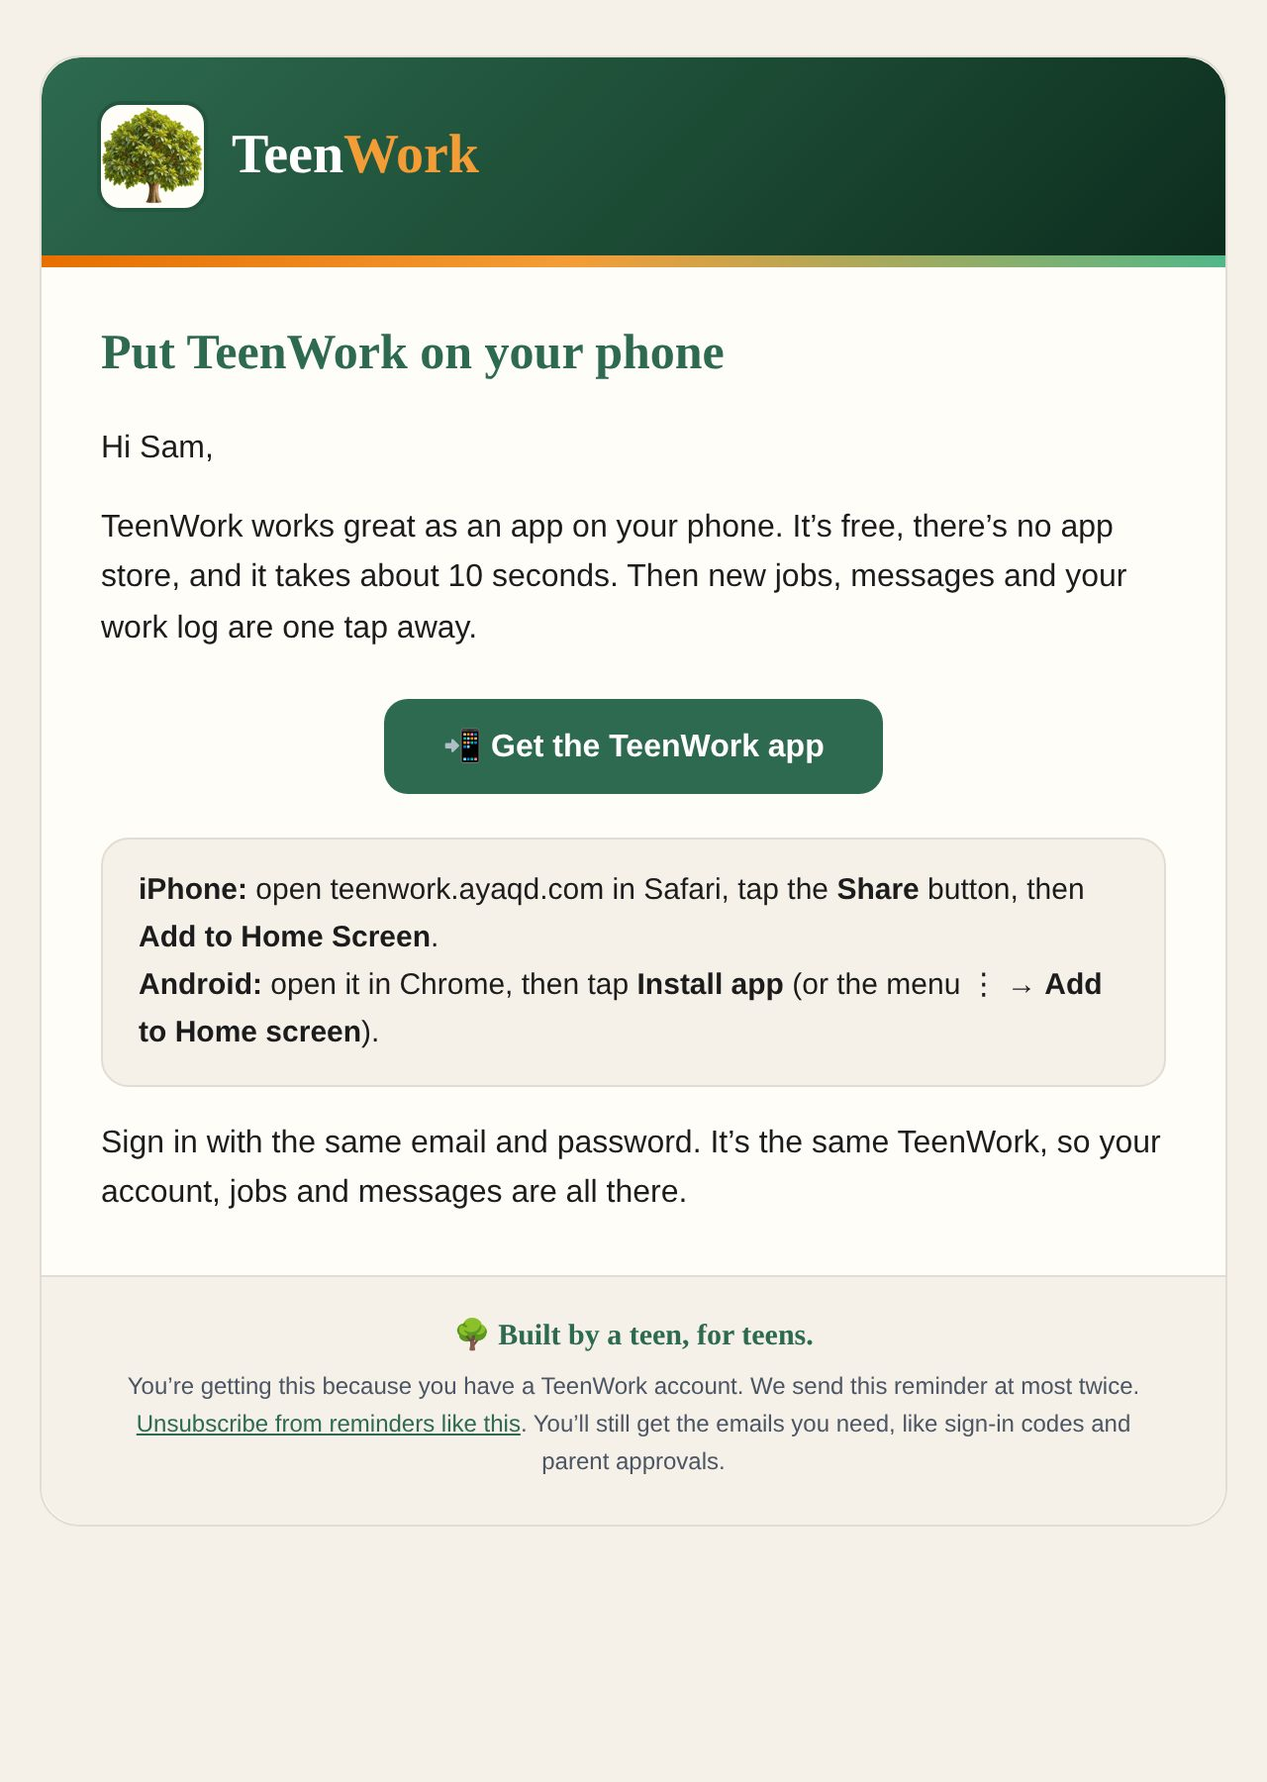
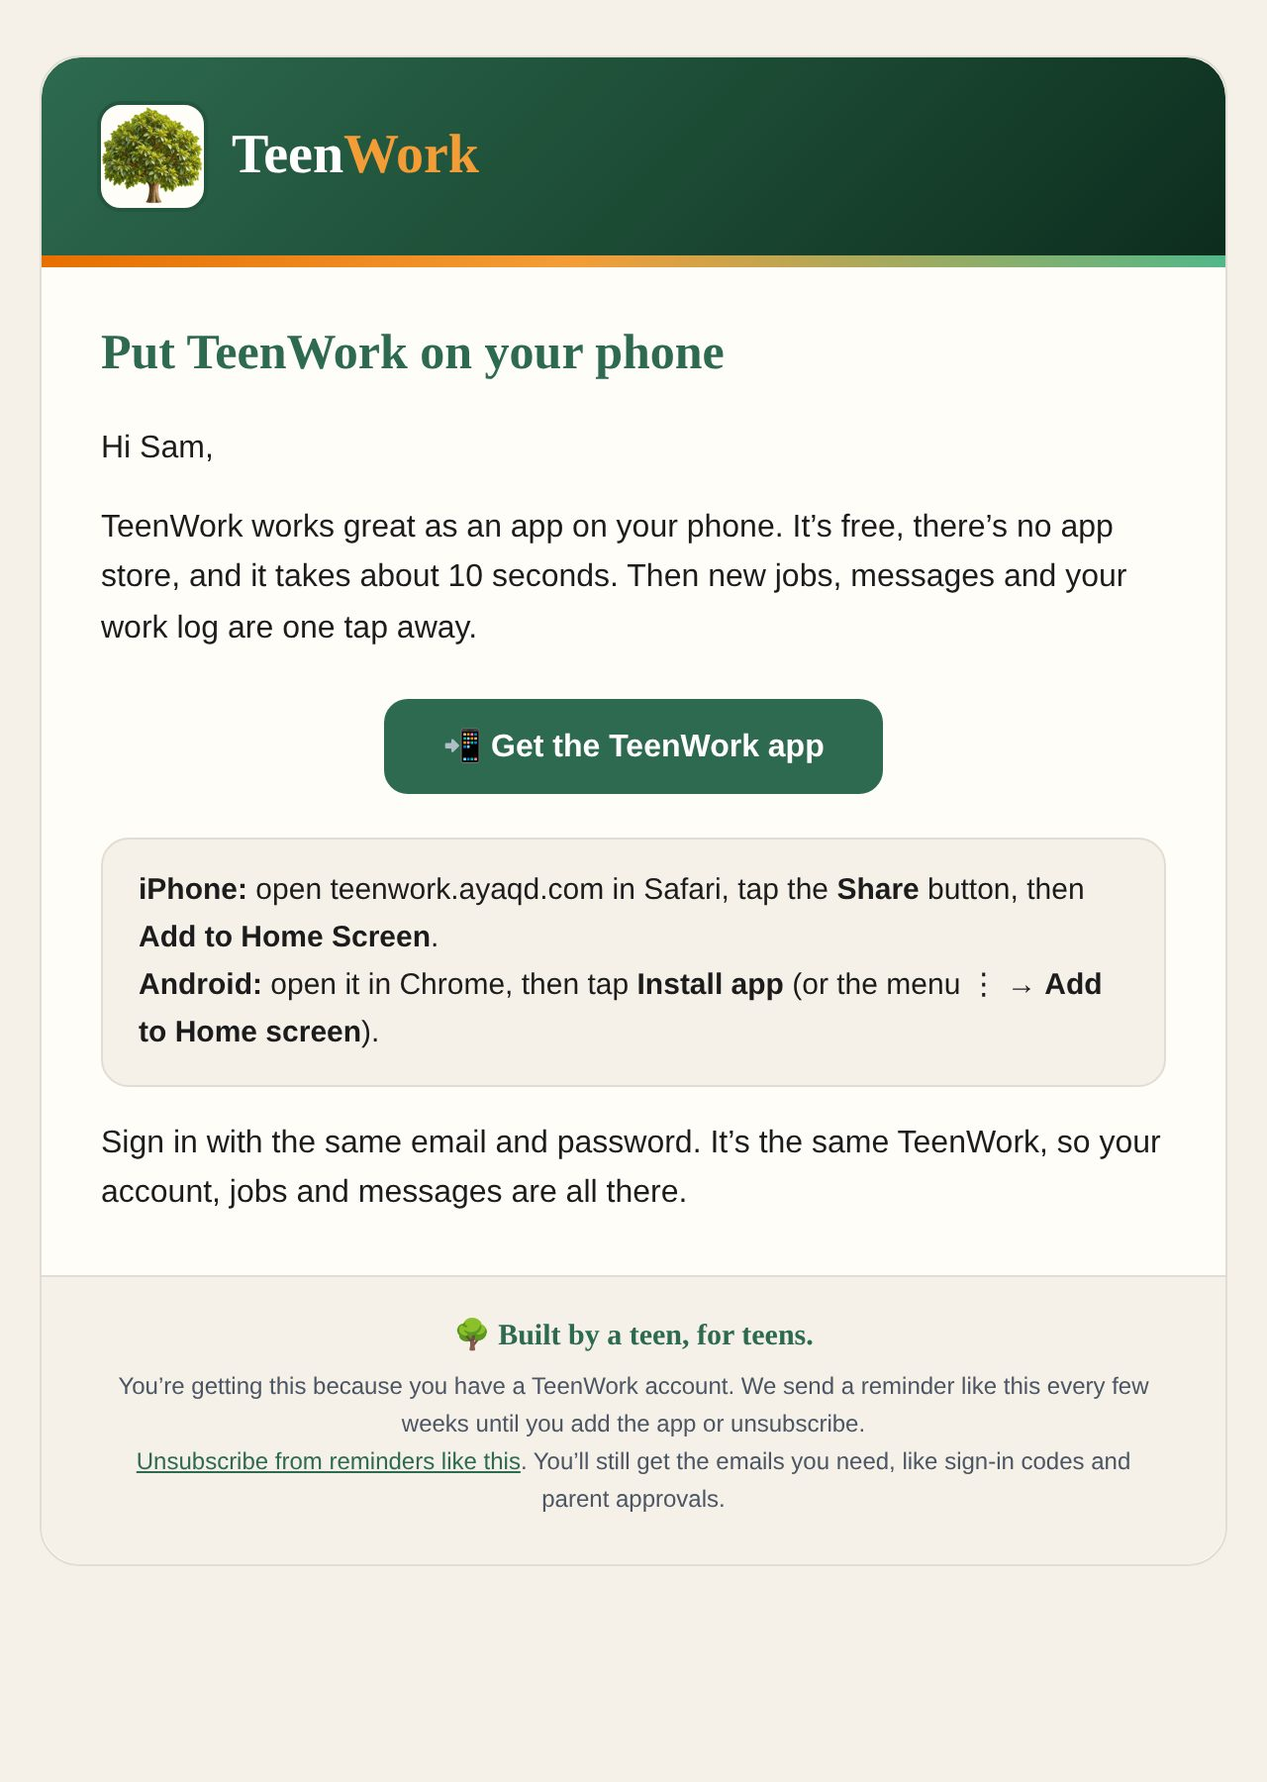
Get the app: reminders keep going until someone unsubscribes
Aya: "don't just end promotional stuff unless they unsubscribe".
- Reminder emails: no cap per person (was 2). One every 21+ days until the
  person unsubscribes or opens the installed app. Optional secret
  APP_EMAILS_MAX_PER_PERSON sets a cap. The wording takes turns between three
  versions and never says "last reminder"; the footer says they come every
  few weeks until you add the app or unsubscribe.
- Whoever has had the fewest reminders goes first, so new accounts are not
  crowded out by the daily limit.
- Pop-up: no cap (was 3 times); every 14+ days until "Don't ask again".
- Tests and README updated; new picture docs/get-app/email-reminder-3.jpg.

Claude-Session: https://claude.ai/code/session_01DScwzLM2e38oY7J8DSKjJL

Changed region(s): [[0.0938, 0.7467, 0.9062, 0.84]]

diff --git a/supabase/functions/app-emails/core.ts b/supabase/functions/app-emails/core.ts
@@ -1,11 +1,15 @@
 // app-emails: TeenWork's occasional "get the app" reminder emails (v57, 2026-11-13).
 // Aya: "have a download app button and a popup try to get users to download and send emails about sometimes".
+// Aya, later the same day: "don't just end promotional stuff unless they unsubscribe". So the reminders keep
+// coming every 3 weeks until the person unsubscribes (or opens TeenWork as an installed app, which is what
+// they ask for). The wording takes turns between three versions so it isn't the same email every time.
 // The logic lives here, apart from Deno.serve, so tests/app-emails-function.mjs can run it in Node.
 //
 // What it does, once a day (pg_cron calls POST {"action":"run"}, see migration 20261113_app_emails.sql):
 //   • asks the database who is due (rpc tw_app_email_claim): teen / parent / employer accounts at least
 //     2 days old that haven't opened TeenWork as an installed app and haven't unsubscribed. Never the admin,
-//     demo / .test addresses or Aya's tester inboxes. At most 2 reminders per person ever, 21+ days apart.
+//     demo / .test addresses or Aya's tester inboxes. One every 21+ days, with no limit on how many.
+//     People with the fewest reminders go first, so new accounts aren't crowded out.
 //     The database also refuses a second run within 20 hours, so calling this function again sends nothing.
 //   • sends each one a short email through Resend from the same address as the app's other emails, with a
 //     one-click unsubscribe (List-Unsubscribe headers + a link to https://teenwork.ayaqd.com/?unsub=<token>).
@@ -17,7 +21,7 @@
 //
 // Other requests:
 //   POST {"ping":true}            → is it set up? Sends nothing.
-//   POST {"action":"preview", "role":"teen|parent|employer", "step":1|2, "name":"Sam"}
+//   POST {"action":"preview", "role":"teen|parent|employer", "step":1|2|3…, "name":"Sam"}
 //                                 → the email it would send (subject, html, text). Sends nothing.
 //   GET  ?unsub=<token>           → redirects to the site's unsubscribe page (Supabase shows HTML as text).
 //   POST ?unsub=<token>           → one-click unsubscribe from a mail app (RFC 8058).
@@ -26,6 +30,7 @@
 //   RESEND_API_KEY, RESEND_FROM (e.g. hello@teenwork.ayaqd.com). Nothing is sent without both, and never
 //   from Resend's test sender.
 // Optional: SITE_URL (default https://teenwork.ayaqd.com), APP_EMAILS_PER_RUN, APP_EMAILS_DAY_CAP,
+//   APP_EMAILS_MAX_PER_PERSON (a cap on reminders per person; unset = no cap, keep going until they unsubscribe),
 //   APP_EMAILS_OFF=1 (sends nothing), APP_EMAILS_SECRET (when set, "run" needs header x-tw-cron with it),
 //   MAIL_POSTAL_ADDRESS (a mailing address shown in the footer; US law (CAN-SPAM) asks for one in
 //   promotional email: a P.O. box is fine).
@@ -34,7 +39,7 @@
 
 export type Env = {
   url: string; serviceKey: string; resendKey: string; resendFrom: string; site: string;
-  perRun: number; dayCap: number; minAgeDays: number; gapDays: number; maxPerUser: number;
+  perRun: number; dayCap: number; minAgeDays: number; gapDays: number; maxPerUser: number;   // maxPerUser 0 = no cap
   off: boolean; secret: string; postal: string; pauseMs: number;
 };
 export type Person = { user_id: string; email: string; first_name: string | null; account_type: string | null; step: number; unsub_token: string; prev_last_at: string | null };
@@ -68,25 +73,41 @@ export function buildEmail(p: { first_name?: string | null; account_type?: strin
   const oneTap = role === "parent" ? "your teen&rsquo;s job requests and alerts are one tap away"
     : role === "employer" ? "new applicants and messages are one tap away"
     : "new jobs, messages and your work log are one tap away";
-  const last = p.step >= 2;
-  const subject = last ? "TeenWork is one tap away" : "Put TeenWork on your phone 📲";
-  const preheader = last ? "Add it to your home screen so it opens like an app. This is our last reminder about it."
-    : "It’s free, there’s no app store, and it takes about 10 seconds.";
+  // Three versions that take turns: 1st email = A, 2nd = B, 3rd = C, 4th = A again, and so on.
+  const V = [
+    {
+      subject: "Put TeenWork on your phone 📲", heading: "Put TeenWork on your phone",
+      preheader: "It’s free, there’s no app store, and it takes about 10 seconds.",
+      intro: `TeenWork works great as an app on your phone. It&rsquo;s free, there&rsquo;s no app store, and it takes about 10 seconds. Then ${oneTap}.`,
+      outro: "Sign in with the same email and password. It&rsquo;s the same TeenWork, so your account, jobs and messages are all there.",
+    },
+    {
+      subject: "TeenWork is one tap away", heading: "TeenWork is one tap away",
+      preheader: "Add it to your home screen so it opens like an app.",
+      intro: `Quick tip: you can add TeenWork to your phone&rsquo;s home screen, so it opens like any other app. Then ${oneTap}.`,
+      outro: "Sign in with the same email and password. Once you open TeenWork from your home screen, these reminders stop.",
+    },
+    {
+      subject: "A faster way to open TeenWork", heading: "Open TeenWork in one tap",
+      preheader: "No typing the address, no hunting for the tab.",
+      intro: `Here&rsquo;s a shortcut: put TeenWork on your home screen and it opens in one tap, full screen, like any other app. No typing the address and no hunting for the tab. Then ${oneTap}.`,
+      outro: "Already added it? Open TeenWork from your home screen and sign in once, and these reminders stop.",
+    },
+  ];
+  const v = V[(Math.max(1, Math.floor(Number(p.step) || 1)) - 1) % V.length];
+  const subject = v.subject;
+  const preheader = v.preheader;
   const button = `<table role="presentation" cellpadding="0" cellspacing="0" border="0" align="center" style="margin:22px auto;"><tr><td bgcolor="${C.green}" style="border-radius:12px;background:${C.green};">` +
     `<a href="${appLink}" style="display:inline-block;padding:14px 30px;font-family:${FONT};font-size:16px;font-weight:bold;color:#ffffff;text-decoration:none;border-radius:12px;">&#128242; Get the TeenWork app</a></td></tr></table>`;
   const how = `<table role="presentation" width="100%" cellpadding="0" cellspacing="0" border="0" style="margin:6px 0 4px;background:${C.bg};border:1px solid ${C.border};border-radius:14px;"><tr><td style="padding:14px 18px;font-family:${FONT};font-size:15px;line-height:1.6;color:${C.text};">` +
     `<b>iPhone:</b> open teenwork.ayaqd.com in Safari, tap the <b>Share</b> button, then <b>Add to Home Screen</b>.<br>` +
     `<b>Android:</b> open it in Chrome, then tap <b>Install app</b> (or the menu &#8942; &rarr; <b>Add to Home screen</b>).` +
     `</td></tr></table>`;
-  const body = last
-    ? `<p style="margin:0 0 14px;">${hi}</p>` +
-      `<p style="margin:0 0 14px;">Quick tip: you can add TeenWork to your phone&rsquo;s home screen, so it opens like any other app. Then ${oneTap}.</p>` +
-      button + how +
-      `<p style="margin:16px 0 0;">Sign in with the same email and password. This is the last reminder we&rsquo;ll send about it.</p>`
-    : `<p style="margin:0 0 14px;">${hi}</p>` +
-      `<p style="margin:0 0 14px;">TeenWork works great as an app on your phone. It&rsquo;s free, there&rsquo;s no app store, and it takes about 10 seconds. Then ${oneTap}.</p>` +
-      button + how +
-      `<p style="margin:16px 0 0;">Sign in with the same email and password. It&rsquo;s the same TeenWork, so your account, jobs and messages are all there.</p>`;
+  const body = `<p style="margin:0 0 14px;">${hi}</p>` +
+    `<p style="margin:0 0 14px;">${v.intro}</p>` +
+    button + how +
+    `<p style="margin:16px 0 0;">${v.outro}</p>`;
+  const plain = (h: string) => h.replace(/&rsquo;/g, "'");
   const html =
     `<div style="display:none;max-height:0;max-width:0;overflow:hidden;opacity:0;font-size:1px;line-height:1px;color:${C.bg};">${esc(preheader)}&#8199;&#847;&#8199;&#847;&#8199;&#847;&#8199;&#847;</div>` +
     `<table role="presentation" width="100%" cellpadding="0" cellspacing="0" border="0" bgcolor="${C.bg}" style="width:100%;background:${C.bg};margin:0;padding:0;"><tr><td align="center" style="padding:28px 12px;">` +
@@ -97,11 +118,11 @@ export function buildEmail(p: { first_name?: string | null; account_type?: strin
           `<td style="font-family:${DISPLAY};font-size:28px;font-weight:900;line-height:1.1;color:#ffffff;">Teen<span style="color:${C.amberMid};">Work</span></td>` +
         `</tr></table></td></tr>` +
       `<tr><td height="6" style="height:6px;line-height:6px;font-size:0;background:${C.amber};background-image:linear-gradient(90deg,${C.amber} 0%,${C.amberMid} 45%,${C.greenLight} 100%);">&nbsp;</td></tr>` +
-      `<tr><td style="padding:28px 30px 6px;"><h1 style="margin:0;font-family:${DISPLAY};font-size:25px;line-height:1.25;font-weight:900;color:${C.green};">${last ? "TeenWork is one tap away" : "Put TeenWork on your phone"}</h1></td></tr>` +
+      `<tr><td style="padding:28px 30px 6px;"><h1 style="margin:0;font-family:${DISPLAY};font-size:25px;line-height:1.25;font-weight:900;color:${C.green};">${esc(v.heading)}</h1></td></tr>` +
       `<tr><td style="padding:14px 30px 28px;font-family:${FONT};font-size:16px;line-height:1.6;color:${C.text};">${body}</td></tr>` +
       `<tr><td bgcolor="${C.bg}" style="background:${C.bg};border-top:1px solid ${C.border};padding:18px 30px 22px;text-align:center;font-family:${FONT};font-size:12px;line-height:1.6;color:${C.muted};border-radius:0 0 20px 20px;">` +
         `<div style="font-family:${DISPLAY};font-size:15px;font-weight:900;color:${C.green};margin-bottom:4px;">&#127795; Built by a teen, for teens.</div>` +
-        `You&rsquo;re getting this because you have a TeenWork account. We send this reminder at most twice.<br>` +
+        `You&rsquo;re getting this because you have a TeenWork account. We send a reminder like this every few weeks until you add the app or unsubscribe.<br>` +
         `<a href="${unsubLink}" style="color:${C.green};text-decoration:underline;">Unsubscribe from reminders like this</a>. You&rsquo;ll still get the emails you need, like sign-in codes and parent approvals.` +
         (env.postal ? `<br>TeenWork &middot; ${esc(env.postal)}` : "") +
       `</td></tr>` +
@@ -109,19 +130,17 @@ export function buildEmail(p: { first_name?: string | null; account_type?: strin
   const text = [
     name ? `Hi ${name},` : "Hi there,",
     "",
-    last
-      ? `Quick tip: you can add TeenWork to your phone's home screen, so it opens like any other app. Then ${oneTap.replace("&rsquo;", "'")}.`
-      : `TeenWork works great as an app on your phone. It's free, there's no app store, and it takes about 10 seconds. Then ${oneTap.replace("&rsquo;", "'")}.`,
+    plain(v.intro),
     "",
     `Get the app: ${appLink}`,
     "",
     "iPhone: open teenwork.ayaqd.com in Safari, tap the Share button, then Add to Home Screen.",
     "Android: open it in Chrome, then tap Install app (or the menu, then Add to Home screen).",
     "",
-    last ? "Sign in with the same email and password. This is the last reminder we'll send about it." : "Sign in with the same email and password. It's the same TeenWork, so your account, jobs and messages are all there.",
+    plain(v.outro),
     "",
     "--",
-    "You're getting this because you have a TeenWork account. We send this reminder at most twice.",
+    "You're getting this because you have a TeenWork account. We send a reminder like this every few weeks until you add the app or unsubscribe.",
     `Unsubscribe: ${unsubLink}`,
     env.postal ? `TeenWork · ${env.postal}` : "",
   ].join("\n").trim();
@@ -231,7 +250,7 @@ export function makeHandler(env: Env, fetchImpl: typeof fetch = fetch) {
     try { body = await req.json(); } catch { return fail(400, "bad_request", "Bad JSON"); }
     if (body?.ping) return json({ ok: true, configured, off: env.off, per_run: env.perRun, day_cap: env.dayCap, from_domain: (fromAddr.split("@")[1] || "") });
     if (body?.action === "preview") {
-      const step = Number(body.step) === 2 ? 2 : 1;
+      const step = Math.min(Math.max(Math.floor(Number(body.step)) || 1, 1), 999);
       const mail = buildEmail({ first_name: body.name ?? "Sam", account_type: String(body.role || "teen"), step, unsub_token: "00000000-0000-4000-8000-000000000000" }, env);
       return json({ ok: true, ...mail });
     }
@@ -251,7 +270,7 @@ export function envFrom(get: (k: string) => string | undefined): Env {
     resendKey: s("RESEND_API_KEY"), resendFrom: s("RESEND_FROM"),
     site: s("SITE_URL") || "https://teenwork.ayaqd.com",
     perRun: n("APP_EMAILS_PER_RUN", 20, 60), dayCap: n("APP_EMAILS_DAY_CAP", 60, 90),
-    minAgeDays: 2, gapDays: 21, maxPerUser: 2,
+    minAgeDays: 2, gapDays: 21, maxPerUser: n("APP_EMAILS_MAX_PER_PERSON", 0, 1000),   // 0 = no cap
     off: /^(1|true|yes|on)$/i.test(s("APP_EMAILS_OFF")), secret: s("APP_EMAILS_SECRET"), postal: s("MAIL_POSTAL_ADDRESS").slice(0, 200),
     pauseMs: 600,
   };

diff --git a/assets/js/get-app-v57.js b/assets/js/get-app-v57.js
@@ -24,9 +24,10 @@
      what the QR code opens).
    • The pop-up: a real member on their dashboard (never the home page,
      sign-up, demos or the admin) sees the same window on its own, after the
-     tour and any other window is closed. At most 3 times per account on a
-     device, 14 days apart; "Don't ask again" stops it; it never shows once
-     TeenWork is installed or opened from the home screen. It replaces the
+     tour and any other window is closed. Every 14 days or more, with no
+     limit on how many times (Aya: "don't just end promotional stuff unless
+     they unsubscribe"): only "Don't ask again" stops it, and it never shows
+     once TeenWork is installed or opened from the home screen. It replaces the
      old featpack-js install sheet (polish-v54 still calls
      window.twOfferInstall a few seconds after a dashboard opens; that is
      now this pop-up).
@@ -48,7 +49,7 @@
   var SITE = 'https://teenwork.ayaqd.com/';
   var APP_LINK = SITE + '?app=1';
   var INSTALLED = 'tw57_app_installed';   // localStorage: this device installed TeenWork (accepted the prompt / opened it as an app)
-  var NUDGE_GAP_DAYS = 14, NUDGE_MAX = 3;
+  var NUDGE_GAP_DAYS = 14;   // no cap on how many times: "Don't ask again" is the way to stop it
   // pop-up timing: polish-v54 asks 8 s after a dashboard opens, this waits 4 s more (about 12 s in), then
   // checks every 10 s for up to 2 minutes until nothing else is on screen
   var T = { first: 4000, retry: 10000, giveUp: 120000 };
@@ -374,7 +375,7 @@
     var u = user();
     if (!isMember(u) || installed() || !onDashboard() || $('tw57-app')) return false;
     var s = nudgeState(u);
-    if (s.never || (s.n || 0) >= NUDGE_MAX) return false;
+    if (s.never) return false;
     if (s.last && Date.now() - s.last < NUDGE_GAP_DAYS * 864e5) return false;
     return true;
   }

diff --git a/README.md b/README.md
@@ -155,11 +155,11 @@ TeenWork has no app-store app: it is a web app with a manifest and a service wor
 
 - **The window** shows what works on that device: the browser's own install prompt as a "Download the app" button (Chrome, Edge and Samsung Internet on Android and computers); the Share → Add to Home Screen steps on iPhone and iPad (Safari, Chrome and others); the menu steps on other Android browsers; "open it in your browser first" inside Instagram, TikTok, Snapchat or Facebook; and on computers a QR code (`assets/img/get-app-qr.svg`, opens `https://teenwork.ayaqd.com/?app=1`) plus "Email me the link" for members.
 - **Buttons:** "📲 Download the app" in the dashboard menu footer (clean-menu-v43's `[data-twm="app"]` item; until the menu has one, this file adds its own button there), "📲 Get the app" in the home page top bar on computers, a band above "Share TeenWork", and the home page footer. They hide once TeenWork is installed.
-- **The pop-up** replaces the v54 install sheet (`#featpack-install` is hidden; `polish-v54` still calls `window.twOfferInstall` 8 seconds after a dashboard opens). Only real members on their dashboard, never on the home page, sign-up, demos or the admin. It waits until the tour and any other window are closed, shows at most 3 times per account on a device, 14 days apart, and "Don't ask again" stops it. Never once TeenWork is installed or opened from the home screen.
+- **The pop-up** replaces the v54 install sheet (`#featpack-install` is hidden; `polish-v54` still calls `window.twOfferInstall` 8 seconds after a dashboard opens). Only real members on their dashboard, never on the home page, sign-up, demos or the admin. It waits until the tour and any other window are closed and comes back every 14 days with no limit on how many times; only "Don't ask again" stops it (Aya: "don't just end promotional stuff unless they unsubscribe"). Never once TeenWork is installed or opened from the home screen.
 - **Opened from the home screen**, TeenWork skips the marketing home page and opens Sign In, and tells Supabase that the signed-in member has the app (`rpc tw_app_installed`, once a week per device) so the reminder emails stop.
 - `manifest.json` has two screenshots (`assets/img/app-shot-*.jpg`), which Chrome shows in its install sheet.
 
-**Reminder emails.** `supabase/functions/app-emails/` sends an occasional "Put TeenWork on your phone" email through Resend (the same `RESEND_API_KEY` / `RESEND_FROM` as `send-email`). A pg_cron job calls it once a day at 22:00 UTC. Who gets one: teen, parent and employer accounts at least 2 days old that haven't opened the installed app, haven't unsubscribed and aren't closed; never the admin, demo or `.test` addresses or the tester inboxes. At most 2 reminders per person ever, 21 or more days apart, at most 20 a run, and none once the last 24 hours hold 60 emails of any kind, so at least 35 of the 95 a day stay free for sign-up, parent and job emails. Each email has a one-click unsubscribe (mail apps' own Unsubscribe button, and a link to `https://teenwork.ayaqd.com/?unsub=<token>`, which has an Undo). No tracking pictures, only the person's first name. The database decides who is due (`supabase/migrations/20261113_app_emails.sql`: `tw_email_prefs`, `tw_app_email_claim`, `tw_email_unsubscribe` …) and refuses a second run within 20 hours, so calling the function again sends nothing new.
+**Reminder emails.** `supabase/functions/app-emails/` sends an occasional "Put TeenWork on your phone" email through Resend (the same `RESEND_API_KEY` / `RESEND_FROM` as `send-email`). A pg_cron job calls it once a day at 22:00 UTC. Who gets one: teen, parent and employer accounts at least 2 days old that haven't opened the installed app, haven't unsubscribed and aren't closed; never the admin, demo or `.test` addresses or the tester inboxes. One every 21 days or more, with no limit on how many, until the person unsubscribes or opens the installed app (set the optional secret `APP_EMAILS_MAX_PER_PERSON` to cap it). The wording takes turns between three versions, and whoever has had the fewest reminders goes first. At most 20 a run, and none once the last 24 hours hold 60 emails of any kind, so at least 35 of the 95 a day stay free for sign-up, parent and job emails. Each email has a one-click unsubscribe (mail apps' own Unsubscribe button, and a link to `https://teenwork.ayaqd.com/?unsub=<token>`, which has an Undo). No tracking pictures, only the person's first name. The database decides who is due (`supabase/migrations/20261113_app_emails.sql`: `tw_email_prefs`, `tw_app_email_claim`, `tw_email_unsubscribe` …) and refuses a second run within 20 hours, so calling the function again sends nothing new.
 
 To turn it on:
 
